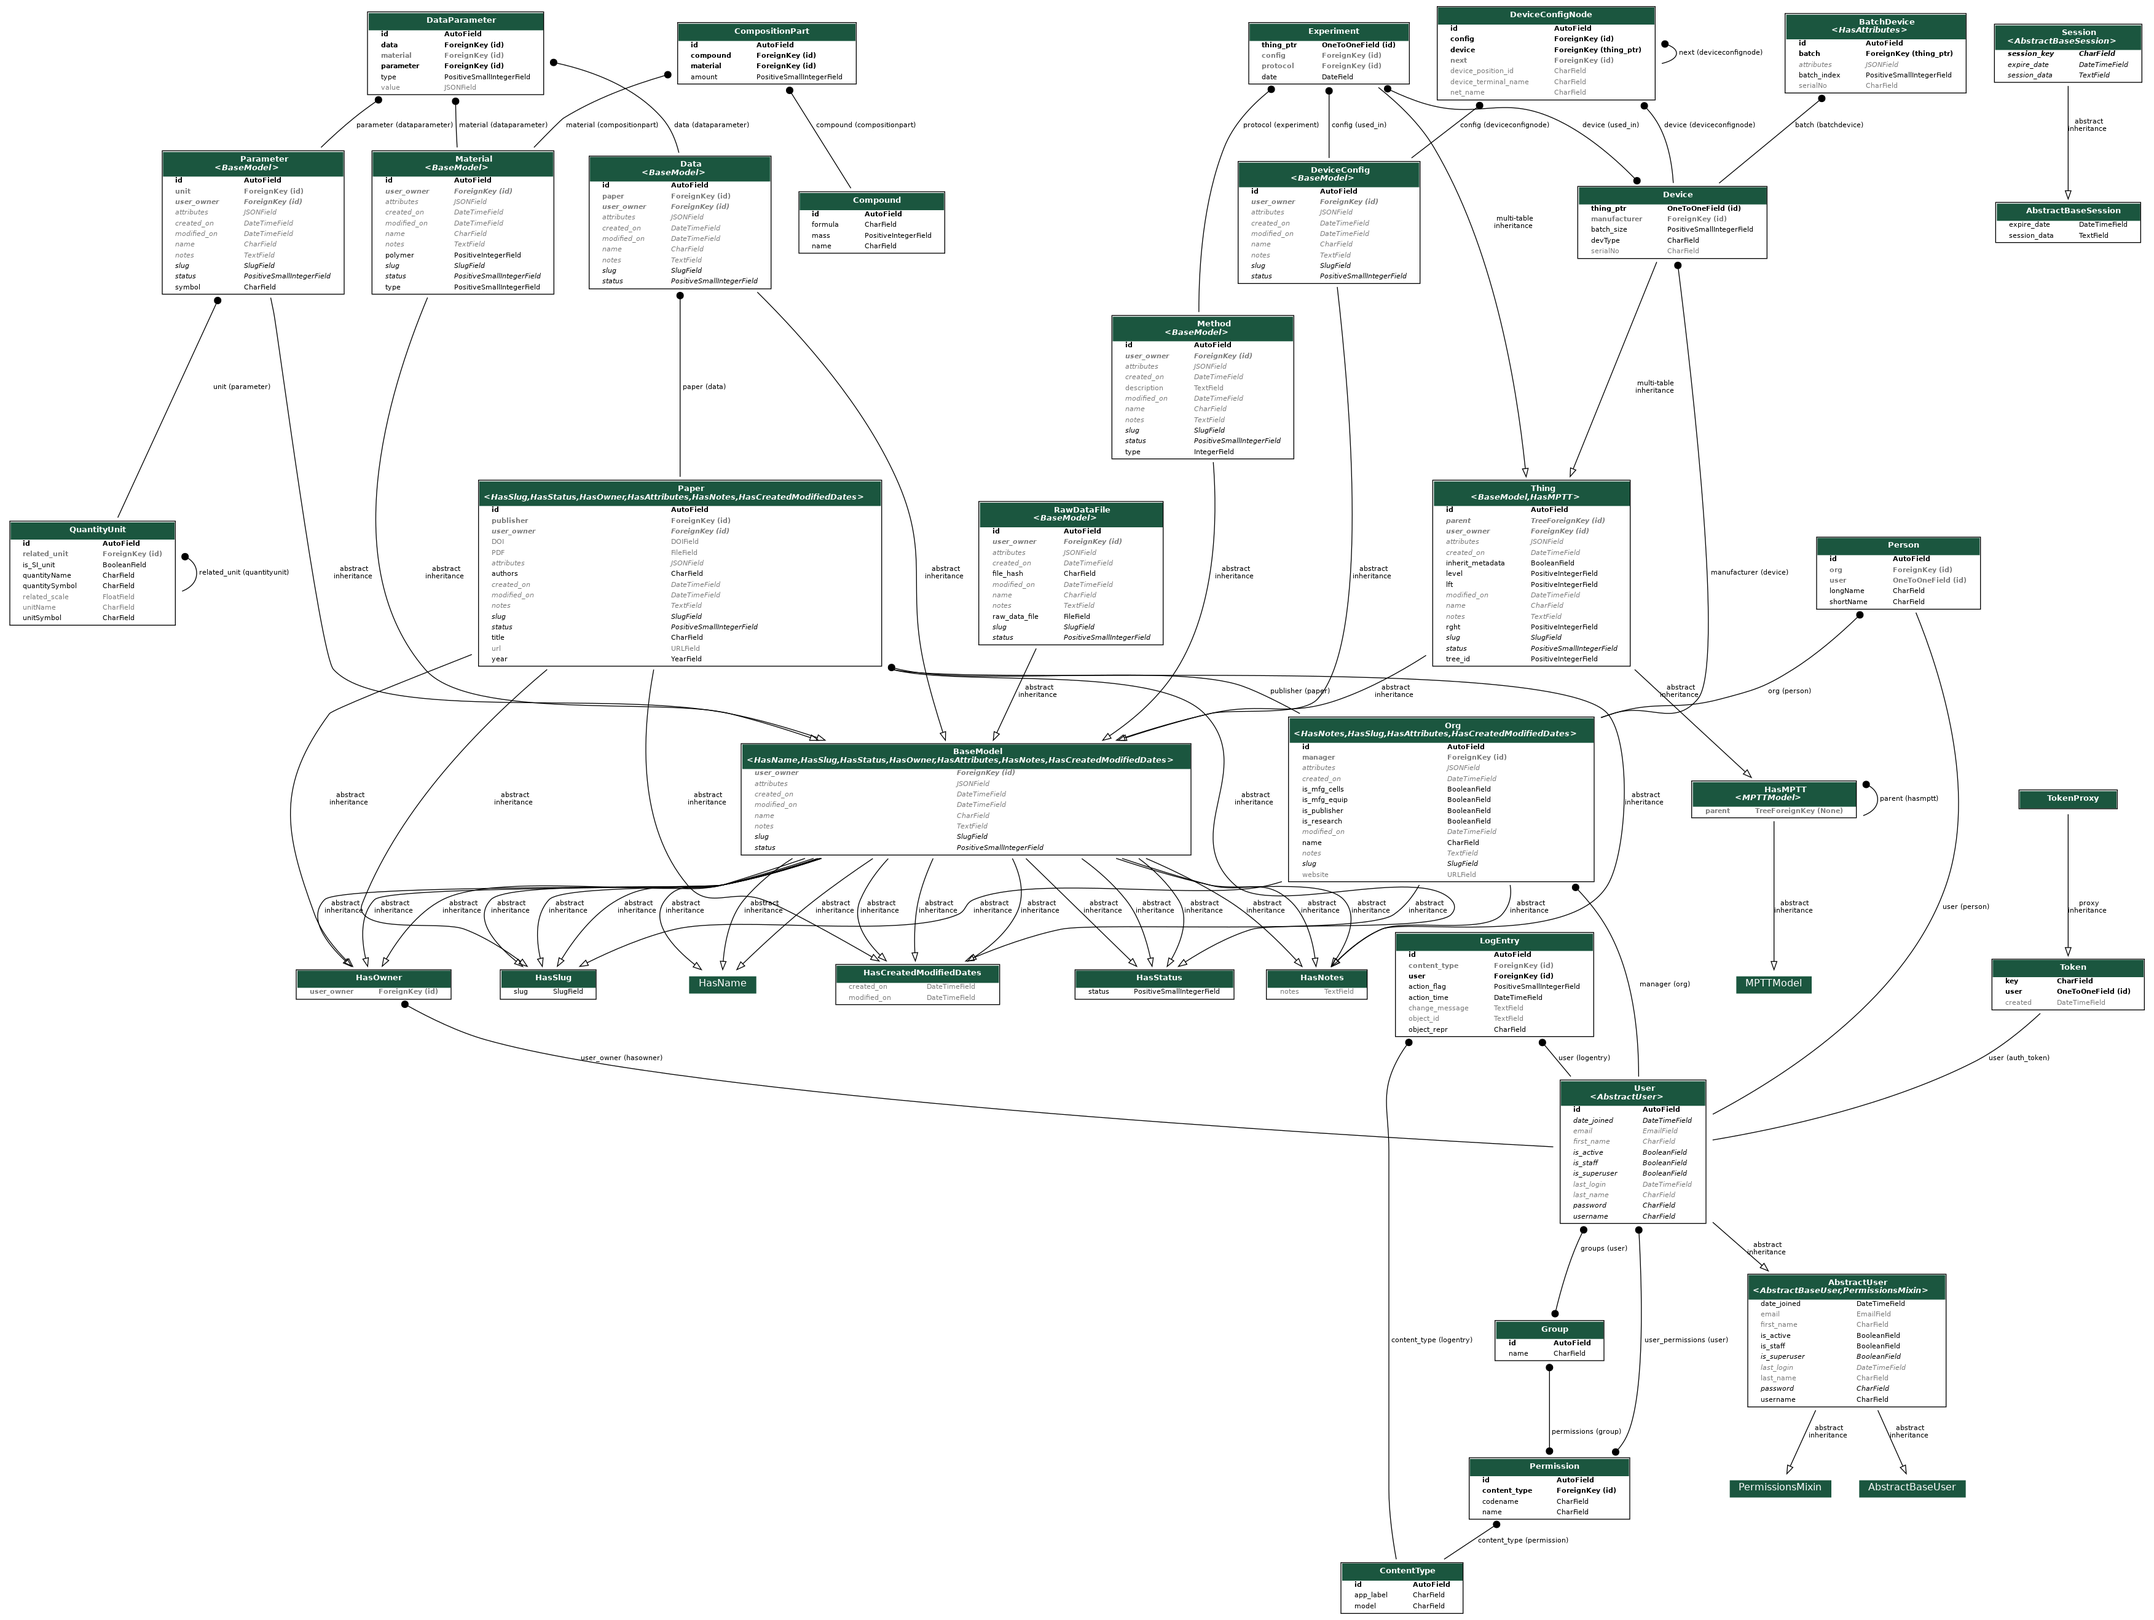
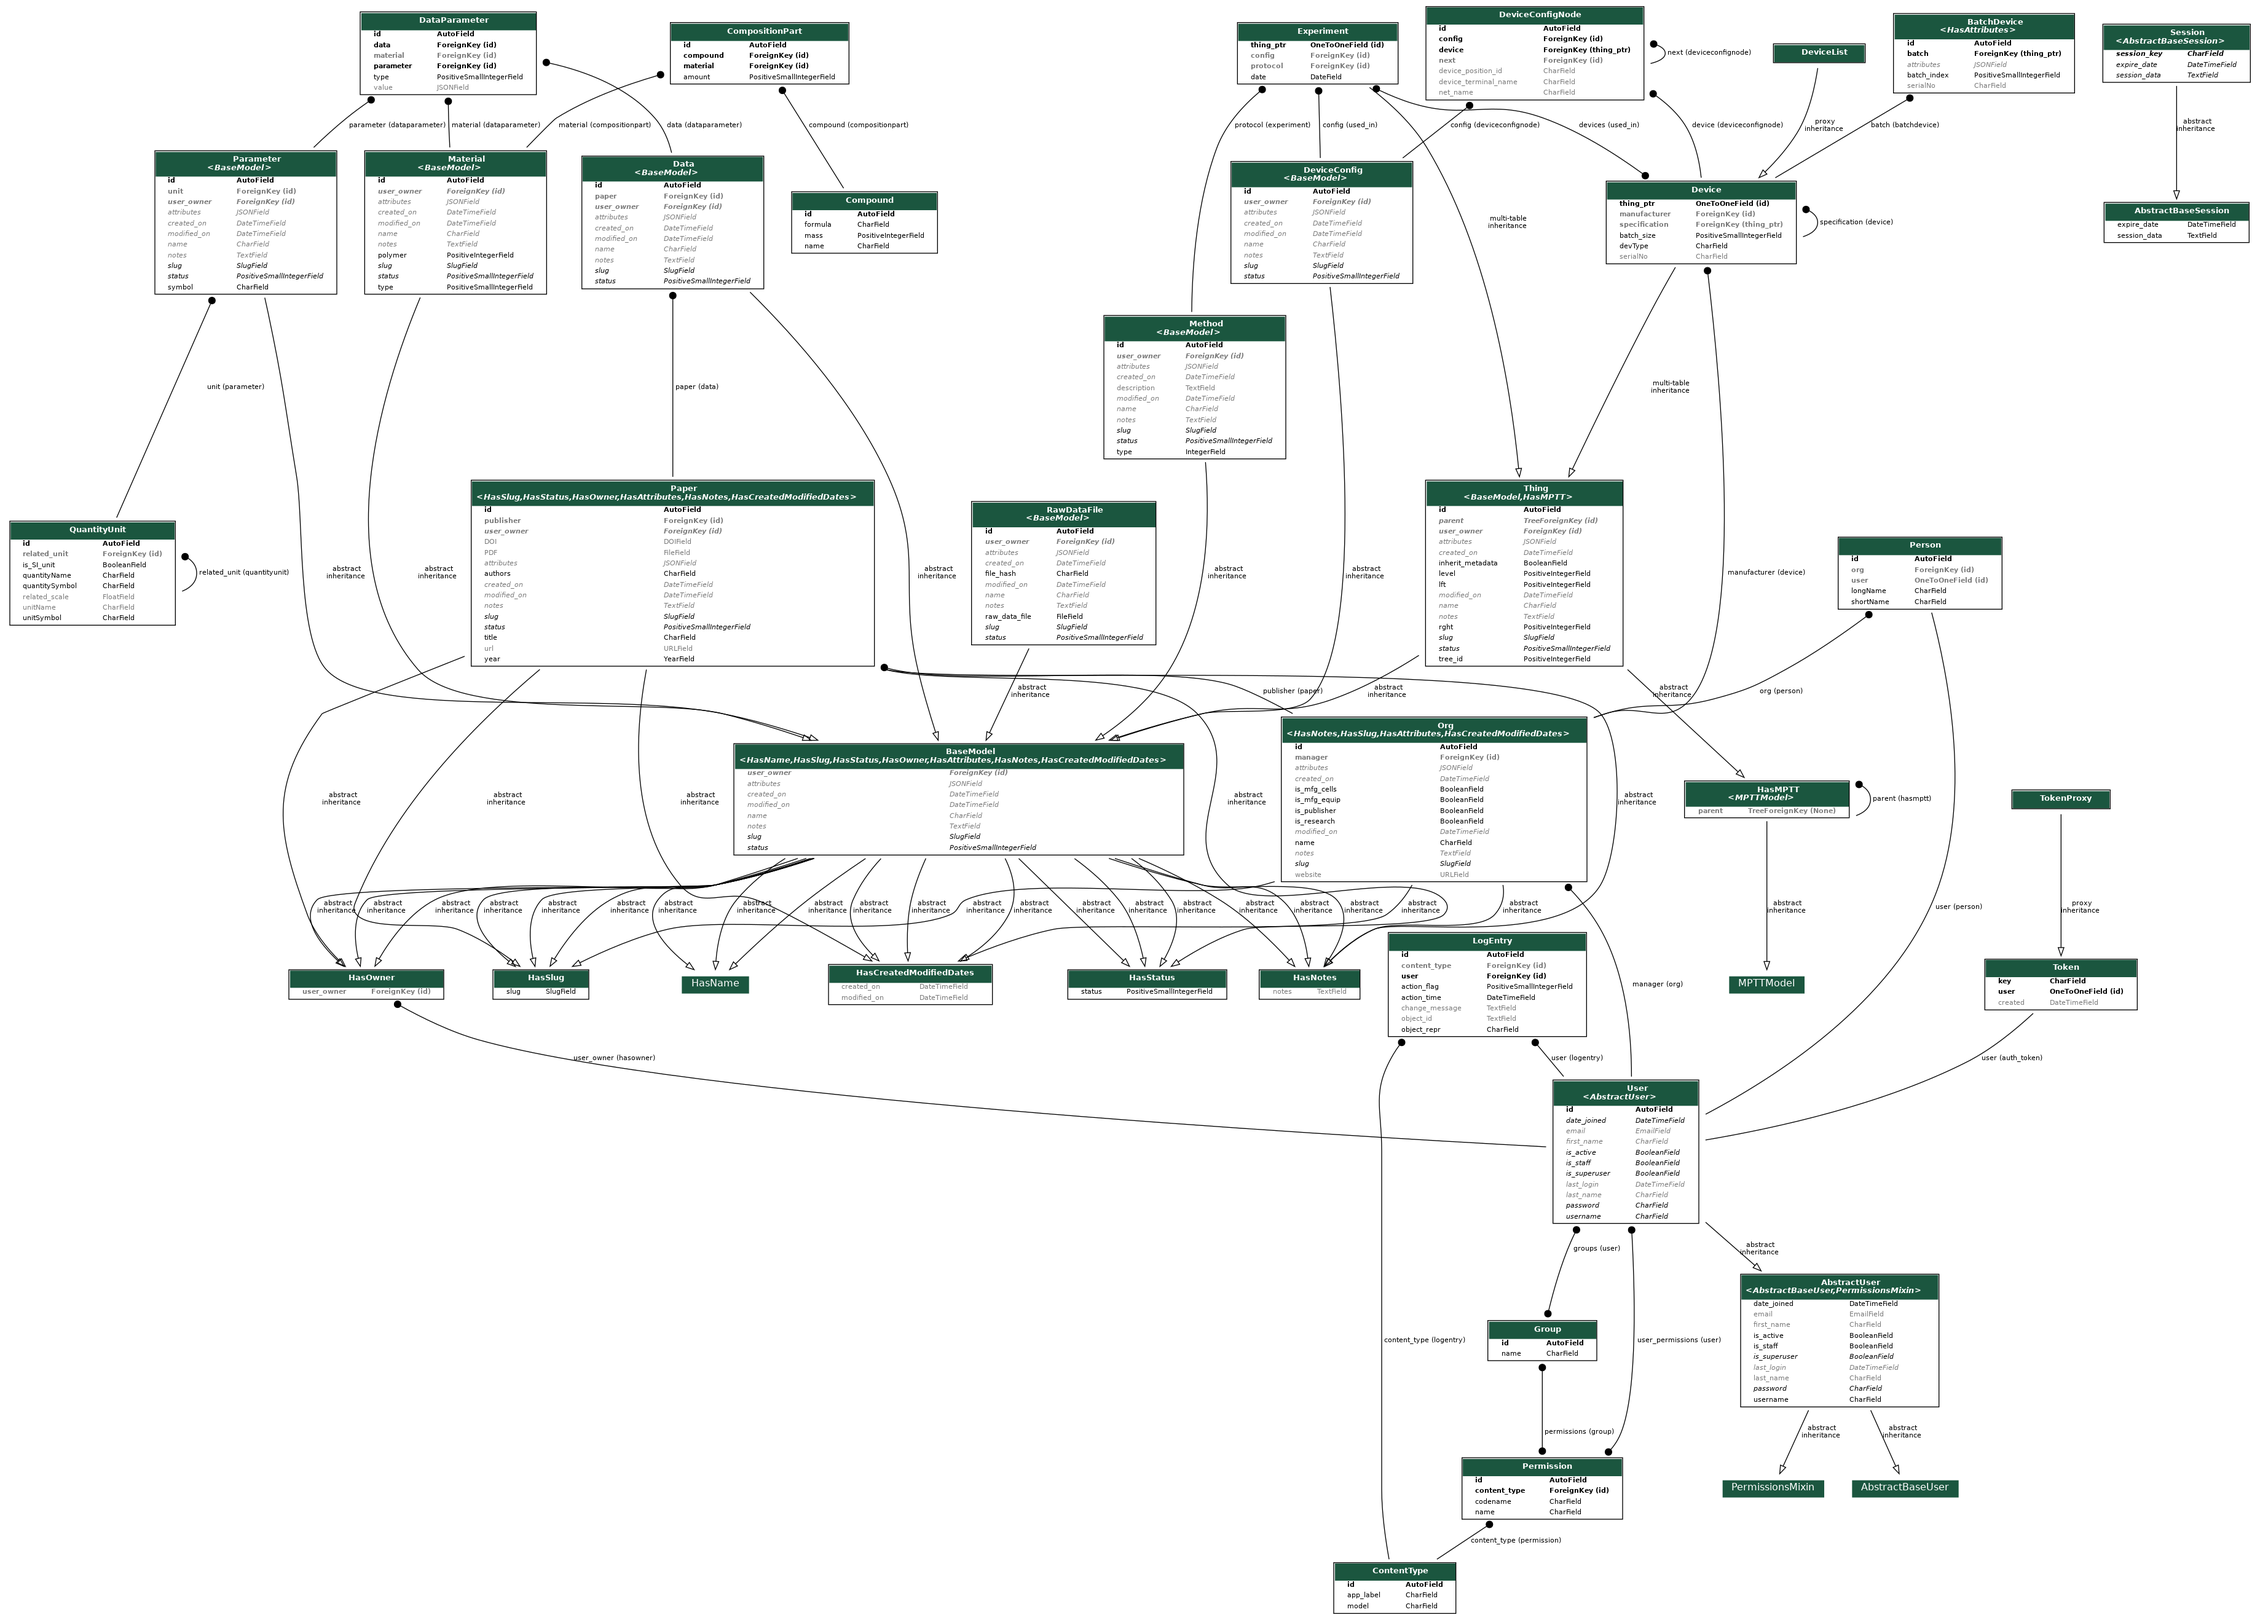
DeviceConfig deleted - can be handled by the MPTT models

diff --git a/django-battdb/battDB/models.py b/django-battdb/battDB/models.py
@@ -70,7 +70,7 @@ class Device(cm.Thing):
         ("component", "Component part of a cell"),
         ("cell", "Single cell"),
         ("module", "Module containing cells"),
-        ("battery", "Battery pack containing sub-modules"),
+        ("battery", "Battery pack containing modules"),
         ("sensor", "Sensor attached to a device"),
         ("cycler", "Cycler Machine"),
     ]
@@ -118,39 +118,39 @@ class BatchDevice(cm.HasAttributes):
 
 
 
-class DeviceConfig(cm.BaseModel):
-    """
-    A configuration of device templates to represent how devices are connected in a module, pack, or experimental set-up
-    """
-    devices = models.ManyToManyField(Device, through='DeviceConfigNode')
-
-
-class DeviceConfigNode(models.Model):
-    """
-    Self-referential model - defines a chain of devices electrically connected together, like a netlist
-    FIXME: I would like to use 'limit_choices_to to' dynamically restrict choices based on 'config',
-           to ensure that all nodes in chain are part of the same config & net,
-           i.e. you cannot link to a node in a different config.
-           But it's a limitation of django that limit_choices_to cannot apply dynamically
-           limit_choices_to={'config':config} would result in an error.
-           Maybe there is a flaw in my database design here? This might not need to be a ManyToMany 'through' table.
-    """
-    device = models.ForeignKey(Device, on_delete=models.CASCADE, limit_choices_to={'inherit_metadata': True},
-                               help_text="Related device specification e.g. cell or sensor. Must have is_template=True")
-    config = models.ForeignKey(DeviceConfig, on_delete=models.CASCADE,
-                               help_text="Config instance to which this node belongs")
-    device_position_id = models.CharField(max_length=20, null=True, blank=True,
-                                          help_text="Position of device in pack e.g. 1 - identifies this device")
-    next = models.ForeignKey('DeviceConfigNode', null=True, blank=True, on_delete=models.SET_NULL,
-                             help_text="Connected node in chain. Must be part of the same config."
-                                       "In a series pack, this would be the negative terminal of the next cell")
-    device_terminal_name = models.CharField(max_length=10, null=True, blank=True, help_text=
-                                            "Name of device port or terminal. e.g. 'Anode'")
-    net_name = models.CharField(max_length=20, null=True, blank=True,
-                                help_text="Name of electrical signal e.g. cell_1_v")
-
-    def __str__(self):
-        return str(self.config) + "/" + str(self.net_name) + str(self.device_terminal_name)
+# class DeviceConfig(cm.BaseModel):
+#     """
+#     A configuration of device templates to represent how devices are connected in a module, pack, or experimental set-up
+#     """
+#     devices = models.ManyToManyField(Device, through='DeviceConfigNode')
+#
+#
+# class DeviceConfigNode(models.Model):
+#     """
+#     Self-referential model - defines a chain of devices electrically connected together, like a netlist
+#     FIXME: I would like to use 'limit_choices_to to' dynamically restrict choices based on 'config',
+#            to ensure that all nodes in chain are part of the same config & net,
+#            i.e. you cannot link to a node in a different config.
+#            But it's a limitation of django that limit_choices_to cannot apply dynamically
+#            limit_choices_to={'config':config} would result in an error.
+#            Maybe there is a flaw in my database design here? This might not need to be a ManyToMany 'through' table.
+#     """
+#     device = models.ForeignKey(Device, on_delete=models.CASCADE, limit_choices_to={'inherit_metadata': True},
+#                                help_text="Related device specification e.g. cell or sensor. Must have is_template=True")
+#     config = models.ForeignKey(DeviceConfig, on_delete=models.CASCADE,
+#                                help_text="Config instance to which this node belongs")
+#     device_position_id = models.CharField(max_length=20, null=True, blank=True,
+#                                           help_text="Position of device in pack e.g. 1 - identifies this device")
+#     next = models.ForeignKey('DeviceConfigNode', null=True, blank=True, on_delete=models.SET_NULL,
+#                              help_text="Connected node in chain. Must be part of the same config."
+#                                        "In a series pack, this would be the negative terminal of the next cell")
+#     device_terminal_name = models.CharField(max_length=10, null=True, blank=True, help_text=
+#                                             "Name of device port or terminal. e.g. 'Anode'")
+#     net_name = models.CharField(max_length=20, null=True, blank=True,
+#                                 help_text="Name of electrical signal e.g. cell_1_v")
+#
+#     def __str__(self):
+#         return str(self.config) + "/" + str(self.net_name) + str(self.device_terminal_name)
 
 
 
@@ -292,7 +292,7 @@ class Experiment(cm.Thing):
     date = models.DateField(default=datetime.now)
     # apparatus = models.ForeignKey(ExperimentalApparatus, on_delete=models.SET_NULL,  null=True, blank=True)
     devices = models.ManyToManyField(Device, related_name='used_in')
-    config = models.ForeignKey(DeviceConfig, on_delete=models.SET_NULL, null=True, blank=True, related_name='used_in')
+    #config = models.ForeignKey(DeviceConfig, on_delete=models.SET_NULL, null=True, blank=True, related_name='used_in')
     protocol = models.ForeignKey(dfn.Method, on_delete=models.SET_NULL, null=True, blank=True,
                                  limit_choices_to={'type': dfn.Method.METHOD_TYPE_EXPERIMENTAL})
 

diff --git a/django-battdb/battDB/admin.py b/django-battdb/battDB/admin.py
@@ -12,7 +12,7 @@ from .models import *
 # Need to override inline class to set model to Device instead of Thing
 class CompositeDeviceInline(common.admin.CompositeThingInline):
     model = Device
-    exclude = ['attributes']
+    exclude = ['attributes', 'user_owner']
     formfield_overrides = {
         models.TextField: {'widget': Textarea(
                            attrs={'rows': 1,
@@ -53,15 +53,15 @@ admin.site.register(DeviceList, DeviceListAdmin)
 
 admin.site.register(Experiment, ThingAdmin)
 
-class DeviceConfigInline(admin.TabularInline):
-    model = DeviceConfigNode
-    extra = 2
-
-
-class DeviceConfigAdmin(BaseAdmin):
-    inlines = (DeviceConfigInline,)
-    # list_display = ["title", "DOI", "year", "has_pdf"]
-    # list_filter = ["year", "publisher", "authors"]
+# class DeviceConfigInline(admin.TabularInline):
+#     model = DeviceConfigNode
+#     extra = 2
+#
+#
+# class DeviceConfigAdmin(BaseAdmin):
+#     inlines = (DeviceConfigInline,)
+#     # list_display = ["title", "DOI", "year", "has_pdf"]
+#     # list_filter = ["year", "publisher", "authors"]
 
 
 # class ModuleDeviceInline(admin.TabularInline):
@@ -74,7 +74,7 @@ class DeviceConfigAdmin(BaseAdmin):
     # inlines = [ModuleDeviceInline,]
 
 
-admin.site.register([DeviceConfig,], DeviceConfigAdmin)
+#admin.site.register([DeviceConfig,], DeviceConfigAdmin)
 # admin.site.register([CompositeDevice,], ModuleAdmin)
 
 

diff --git a/django-battdb/battDB/migrations/0105_DeleteDeviceConfig.py b/django-battdb/battDB/migrations/0105_DeleteDeviceConfig.py
@@ -1,0 +1,40 @@
+# Generated by Django 3.1.2 on 2020-10-28 12:59
+
+from django.db import migrations, models
+
+
+class Migration(migrations.Migration):
+
+    dependencies = [
+        ('battDB', '0104_auto_20201028_1225'),
+    ]
+
+    operations = [
+        migrations.RemoveField(
+            model_name='deviceconfignode',
+            name='config',
+        ),
+        migrations.RemoveField(
+            model_name='deviceconfignode',
+            name='device',
+        ),
+        migrations.RemoveField(
+            model_name='deviceconfignode',
+            name='next',
+        ),
+        migrations.RemoveField(
+            model_name='experiment',
+            name='config',
+        ),
+        migrations.AlterField(
+            model_name='device',
+            name='devType',
+            field=models.CharField(choices=[('component', 'Component part of a cell'), ('cell', 'Single cell'), ('module', 'Module containing cells'), ('battery', 'Battery pack containing modules'), ('sensor', 'Sensor attached to a device'), ('cycler', 'Cycler Machine')], default='cell', max_length=16),
+        ),
+        migrations.DeleteModel(
+            name='DeviceConfig',
+        ),
+        migrations.DeleteModel(
+            name='DeviceConfigNode',
+        ),
+    ]
